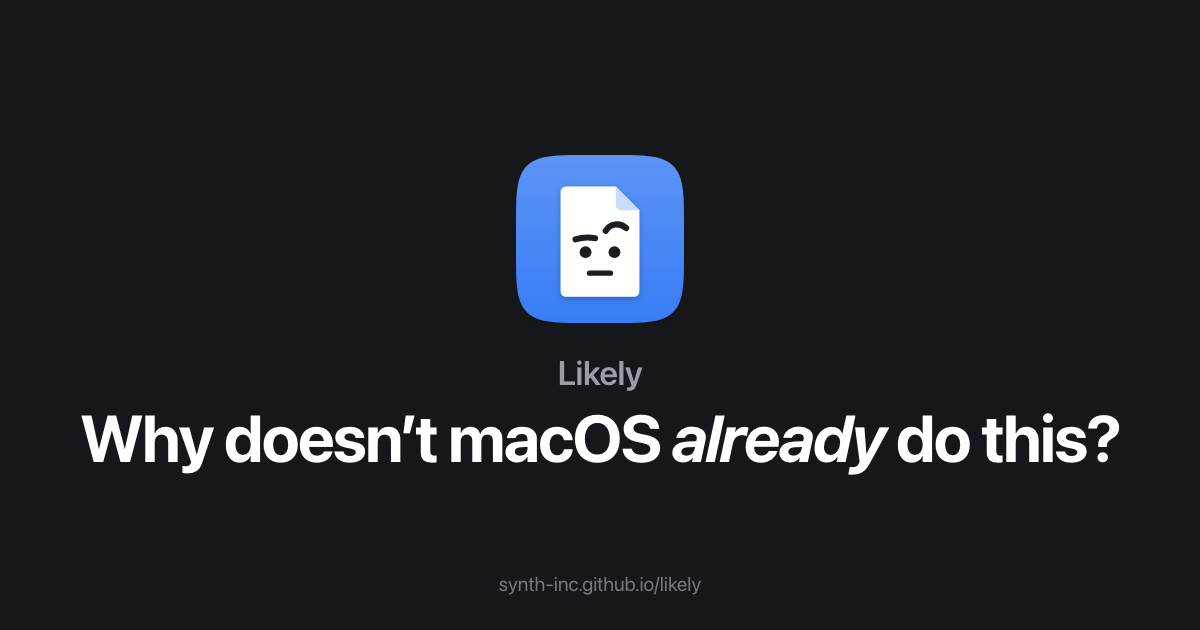
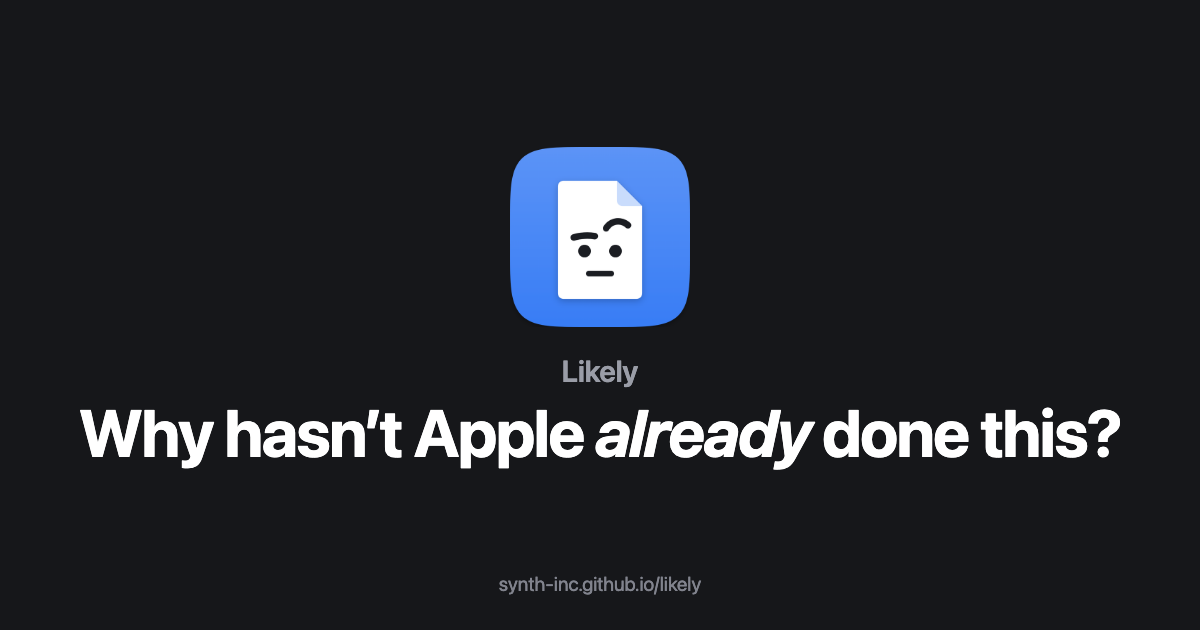
Site: link previews match the hero (title, description, social card)
Claude-Session: https://claude.ai/code/session_011QtFqufH492azCARw1Fkx5

diff --git a/docs/index.html b/docs/index.html
@@ -3,8 +3,8 @@
 <head>
   <meta charset="utf-8">
   <meta name="viewport" content="width=device-width, initial-scale=1">
-  <title>Likely: the file you were about to look for</title>
-  <meta name="description" content="Likely is a Mac menu bar app. Every file picker opens with the files you just added. For anything else, describe it, and Likely finds it.">
+  <title>Likely: Why hasn’t Apple already done this?</title>
+  <meta name="description" content="Likely adds a search bar to every file picker. Describe what you need in plain English, and your agent finds it.">
   <meta name="color-scheme" content="dark light">
   <meta name="theme-color" content="#16171A" media="(prefers-color-scheme: dark)">
   <meta name="theme-color" content="#F5F5F5" media="(prefers-color-scheme: light)">
@@ -12,14 +12,14 @@
   <meta property="og:url" content="https://synth-inc.github.io/likely/">
   <meta property="og:site_name" content="Likely">
   <meta property="og:title" content="Likely: Why hasn't Apple already done this?">
-  <meta property="og:description" content="Anytime you open a file picker, Likely finds the files you're looking for and copies them into a pinned folder.">
+  <meta property="og:description" content="Likely adds a search bar to every file picker. Describe what you need in plain English, and your agent finds it.">
   <meta property="og:image" content="https://synth-inc.github.io/likely/assets/og-image.png">
   <meta property="og:image:width" content="1200">
   <meta property="og:image:height" content="630">
-  <meta property="og:image:alt" content="Likely app icon with the line: Why doesn't macOS already do this?">
+  <meta property="og:image:alt" content="Likely app icon with the line: Why hasn’t Apple already done this?">
   <meta name="twitter:card" content="summary_large_image">
   <meta name="twitter:title" content="Likely: Why hasn't Apple already done this?">
-  <meta name="twitter:description" content="Anytime you open a file picker, Likely finds the files you're looking for and copies them into a pinned folder.">
+  <meta name="twitter:description" content="Likely adds a search bar to every file picker. Describe what you need in plain English, and your agent finds it.">
   <meta name="twitter:image" content="https://synth-inc.github.io/likely/assets/og-image.png">
   <link rel="icon" type="image/svg+xml" href="assets/favicon.svg">
   <link rel="icon" type="image/png" sizes="32x32" href="assets/favicon-32.png">
